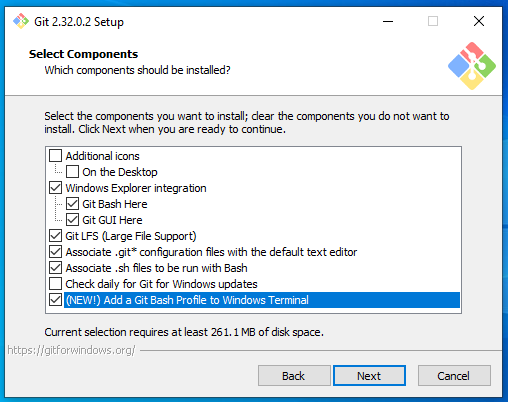
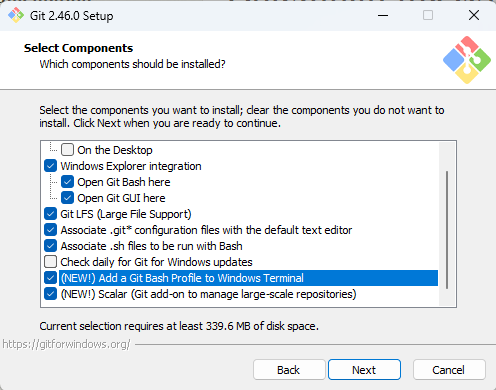
update to windows python instructions

Changed region(s): [[0.0, 0.0, 1.0, 1.0]]

diff --git a/resources_pages/install_ds_stack_windows.md b/resources_pages/install_ds_stack_windows.md
@@ -49,7 +49,7 @@ to check that all software is setup correctly.
 
 ## UBC Student Email
 
-Please sign up for a UBC Student Email. This account will also grant you access to a range of UBC services, including Microsoft Teams and OneDrive. To do so navigate to [https://it.ubc.ca/services/email-voice-internet/ubc-student-email-service](https://it.ubc.ca/services/email-voice-internet/ubc-student-email-service) and follow the instructions under "Get Started". 
+Please sign up for a UBC Student Email. This account will also grant you access to a range of UBC services, including Microsoft Teams and OneDrive. To do so navigate to [https://it.ubc.ca/services/email-voice-internet/ubc-student-email-service](https://it.ubc.ca/services/email-voice-internet/ubc-student-email-service) and follow the instructions under "Get Started".
 
 ## Web browser
 
@@ -133,12 +133,27 @@ run the installer and accept the default configuration for all pages except for 
     ![](/resources_pages/imgs/gitbash-terminal-profile.png)
 
 - On the **Choosing the default editor used by Git** page, select "Use Visual Studio Code as Git's default editor" from the drop-down menu'
+    - You should already have VS Code installed from an earlier installation step
 
     ![](/resources_pages/imgs/vscode-as-git-editor.png)
 
 - Set the default branch name to `main`
 
     ![](/resources_pages/imgs/gitbash-defualt_main.png)
+
+For the remainder screens, pick the default selected options:
+
+- Adjusting your PATH environment: Git from the command line and also from 3rd-party software
+- Choosing the SSH executable: Use bundled OpenSSH
+- Choosing HTTPS transport backend: Use the OpenSSL library
+- Configuring the line ending conversions: Checkout Windows-style, commit Unix-style line endings
+- Configuring the terminal emulator to use with Git Bash: Use MinTTY (the default terminal of MSYS2)
+- Choose the default behavior of 'git pull': Fast-forward or merge
+- Choose a credential helper: Git Credential Manager
+- Configuring extra options: Enable file system caching
+    - You can also choose to "Enable symbolic links"
+- Configuring experimental options: leave it unchecked
+
 
 [To install windows terminal visit this link](https://aka.ms/terminal)
 and click `Get` to open it in Windows Store.
@@ -200,7 +215,7 @@ There is NO WARRANTY, to the extent permitted by law.
 
 > **Note:** If there is a newline (the `enter` character) in the clipboard
 > when you are pasting into the terminal,
-> you will be asked if you are sure you want to paste 
+> you will be asked if you are sure you want to paste
 > since this newline will act as if you pressed `enter`
 > and run the command.
 > As a guideline you can press `Paste anyway`
@@ -310,11 +325,23 @@ Now Git Bash should be opened automatically each time you open a new terminal in
 
 ### Python and Conda
 
-We will be using Python for a large part of the program, and `conda` as our Python package manager. To install Python and the `conda` package manager, we will use the [Miniconda platform (read more here)](https://docs.conda.io/en/latest/miniconda.html), for which the [Python 3.x 64-bit version can be downloaded here](https://repo.anaconda.com/miniconda/Miniconda3-latest-Windows-x86_64.exe). After the download has finished, run the installer and accept the default configuration for all pages.
+We will be using Python for a large part of the program, and `conda` as our Python package manager. To install Python and the `conda` package manager, we will use the [Miniforge platform (read more here)](https://github.com/conda-forge/miniforge).
 
-> **Note:** Do *not* add miniconda to PATH. We will set this up later.
+Select the appropriate link:
 
-After installation, open the Start Menu and search for the program called "Anaconda Prompt (miniconda3)". When this opens you will see a prompt similar to `(base) C:\Users\your_name`. Type the following to check that your Python installation is working:
+You can find the Windows download links here: <https://conda-forge.org/miniforge/>.
+Make sure you use the `Miniforge3` installers, not the other ones listed.
+We will assume you downloaded the file into your `Downloads` folder.
+
+Once downloaded, run the installer.
+
+Use all the default options in the installer.
+
+The install location should look something like: `C:\Users\YOUR_USER_NAME\miniforge3`
+
+> **Note:** Do *not* add miniforge to PATH. We will set this up later.
+
+After installation, open the Start Menu and search for the program called "Miniforge Prompt". When this opens you will see a prompt similar to `(base) C:\Users\your_name`. Type the following to check that your Python installation is working:
 
 ```
 python --version
@@ -326,9 +353,16 @@ which should return Python 3.11.0 or greater:
 Python 3.11.0
 ```
 
+If not, run the following command in the Miniforge Prompt
+
+```bash
+conda install python=3.11
+```
+
+
 ### Integrating Python with the Git Bash terminal
 
-To avoid having to open the separate Anaconda Prompt every time we want to use Python, we can make it available from the (Git Bash) terminal, which is what we will be using most of the time. To set this up, open the "Anaconda Prompt (miniconda3)" again and type:
+To avoid having to open the separate Anaconda Prompt every time we want to use Python, we can make it available from the (Git Bash) terminal, which is what we will be using most of the time. To set this up, open the "Miniforge Prompt" again and type:
 
 ```
 conda init bash
@@ -396,13 +430,7 @@ which is good for stability,
 but also means that new versions will be delayed and fewer packages are available overall.
 There is a community-driven effort called the [conda-forge (read more here)](https://conda-forge.org/),
 which provides more up to date packages.
-To enable us to access the most up to date version of the Python packages we are going to use,
-we will add the more up to date channel.
-To add the conda-forge channel by typing the following in the terminal:
-
-```bash
-conda config --add channels conda-forge
-```
+Conda-forge is already set up when we installed Miniforge3
 
 To install packages individually,
 we can now use the following command:
@@ -413,13 +441,6 @@ and you can press enter to proceed with the installation.
 If you want to answer `yes` by default and skip this confirmation step,
 you can replace `conda install` with `conda install -y`.
 Also note that we may occasionally need to install packages using `pip`, the standard Python package manager. The installation command is very similar to that of `conda`: `pip install <package-name>`.
-Let's try this out by installing a package that makes conda faster
-and changing the config to use this package by default:
-
-```bash
-conda install conda-libmamba-solver
-conda config --set solver libmamba
-```
 
 In the next session
 we will use `conda` to install
@@ -545,7 +566,7 @@ and making sure that it is pointing to the correct folder.
 
 
 
-Now we are going to check that RStudio’s *Insert Pipe* shortcut inserts the [new native pipe operator `|>`](https://blog.rstudio.com/2021/06/09/rstudio-v1-4-update-whats-new/). 
+Now we are going to check that RStudio’s *Insert Pipe* shortcut inserts the [new native pipe operator `|>`](https://blog.rstudio.com/2021/06/09/rstudio-v1-4-update-whats-new/).
 
 Press `Shift` + `Ctrl` + `m` in RStudio's console. If it is returned the following operator `%>%` instead of `|>`, go to `Tools > Global Options > Code > Editing` and tick the following option:
 
@@ -604,12 +625,12 @@ Here's a snippet of the output you should see:
 
 ```
 SAMPLING FOR MODEL '16a540c6086086816528e4524def24d9' NOW (CHAIN 4).
-Chain 4: 
+Chain 4:
 Chain 4: Gradient evaluation took 2e-06 seconds
 Chain 4: 1000 transitions using 10 leapfrog steps per transition would take 0.02 seconds.
 Chain 4: Adjust your expectations accordingly!
-Chain 4: 
-Chain 4: 
+Chain 4:
+Chain 4:
 Chain 4: Iteration:    1 / 2000 [  0%]  (Warmup)
 Chain 4: Iteration:  200 / 2000 [ 10%]  (Warmup)
 Chain 4: Iteration:  400 / 2000 [ 20%]  (Warmup)
@@ -622,11 +643,11 @@ Chain 4: Iteration: 1400 / 2000 [ 70%]  (Sampling)
 Chain 4: Iteration: 1600 / 2000 [ 80%]  (Sampling)
 Chain 4: Iteration: 1800 / 2000 [ 90%]  (Sampling)
 Chain 4: Iteration: 2000 / 2000 [100%]  (Sampling)
-Chain 4: 
+Chain 4:
 Chain 4:  Elapsed Time: 0.003828 seconds (Warm-up)
 Chain 4:                0.003417 seconds (Sampling)
 Chain 4:                0.007245 seconds (Total)
-Chain 4: 
+Chain 4:
 ```
 
 > **Note:** If you are asked to update packages during the installation via `devtools::install_github`, select `3: None`.
@@ -664,13 +685,13 @@ You will see two panels,
 the right-most panel allows you to perform advanced modification
 of keyboards shortcuts in JupyterLab
 and it already contains quite a few shortcuts.
-Please do not delete any of these shortcuts. 
+Please do not delete any of these shortcuts.
 We're going to add two more shortcuts,
 by pasting a text snippet just before the first existing shortcut.
 Go ahead and create a new line just after the line that says `"shortcuts": [`
 and paste the following:
 
- 
+
 
 ```json
         {
@@ -717,7 +738,7 @@ but this is all that is required for MDS.
 
 ## Quarto CLI
 
-Quarto is an open-source scientific and technical publishing system that you can access from VSCode, Jupyter Lab, RStudio, or the terminal. 
+Quarto is an open-source scientific and technical publishing system that you can access from VSCode, Jupyter Lab, RStudio, or the terminal.
 
 The [RStudio version that you have downloaded](https://quarto.org/docs/tools/rstudio.html) is already equipped with the last version of Quarto. You can check this by opening a new document in `File -> New File -> Quarto Document`.
 
